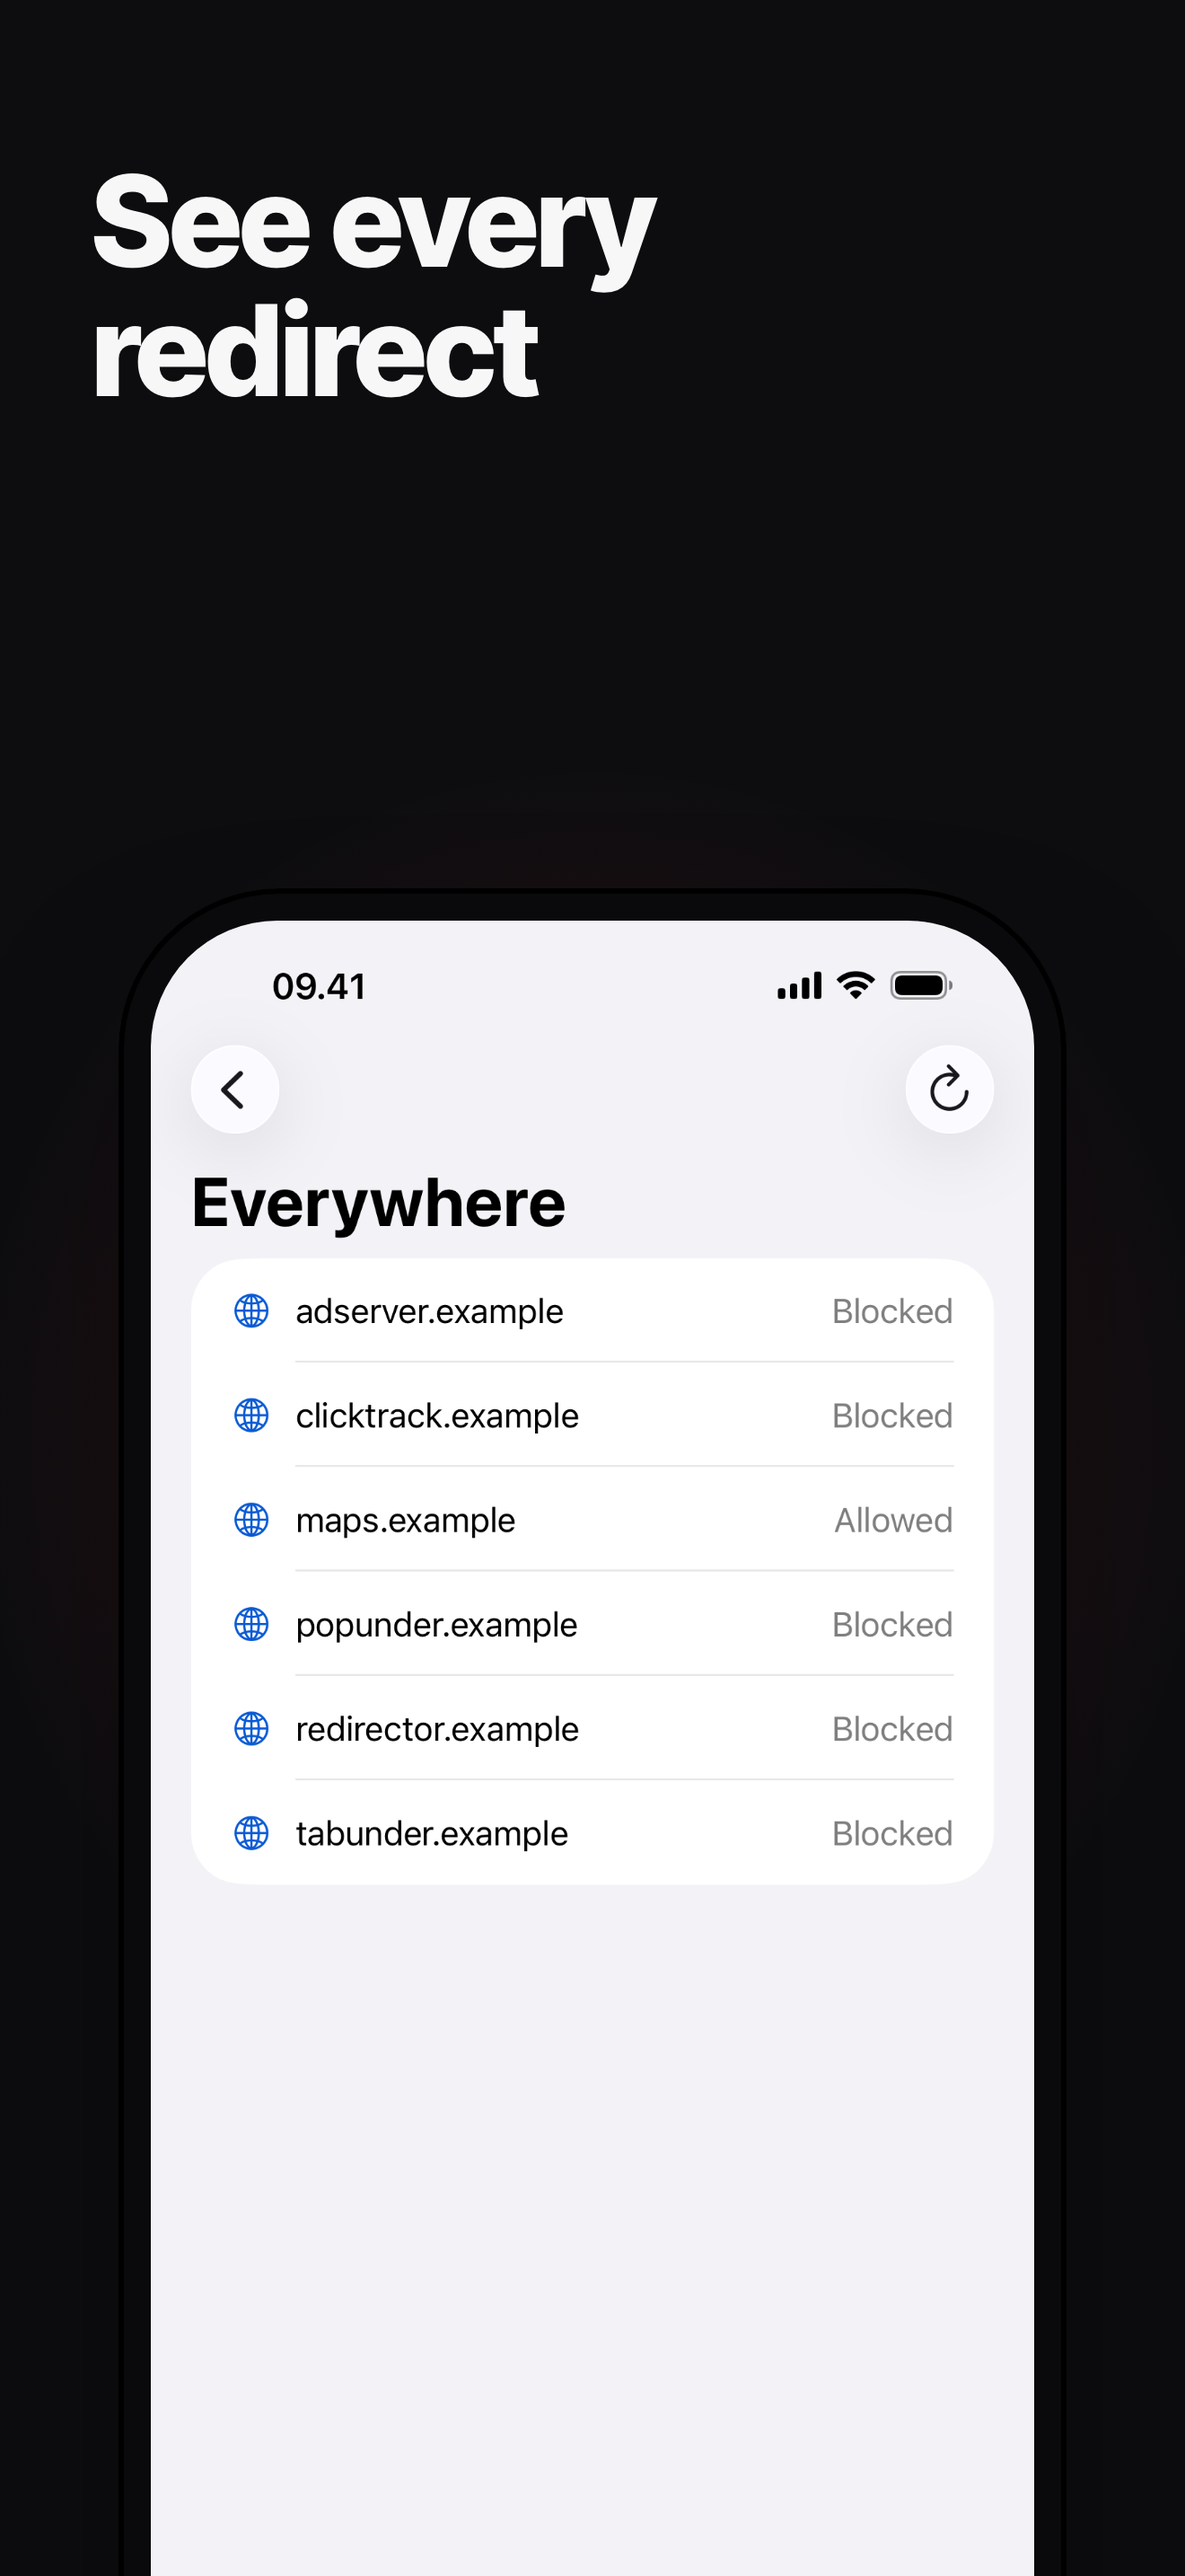
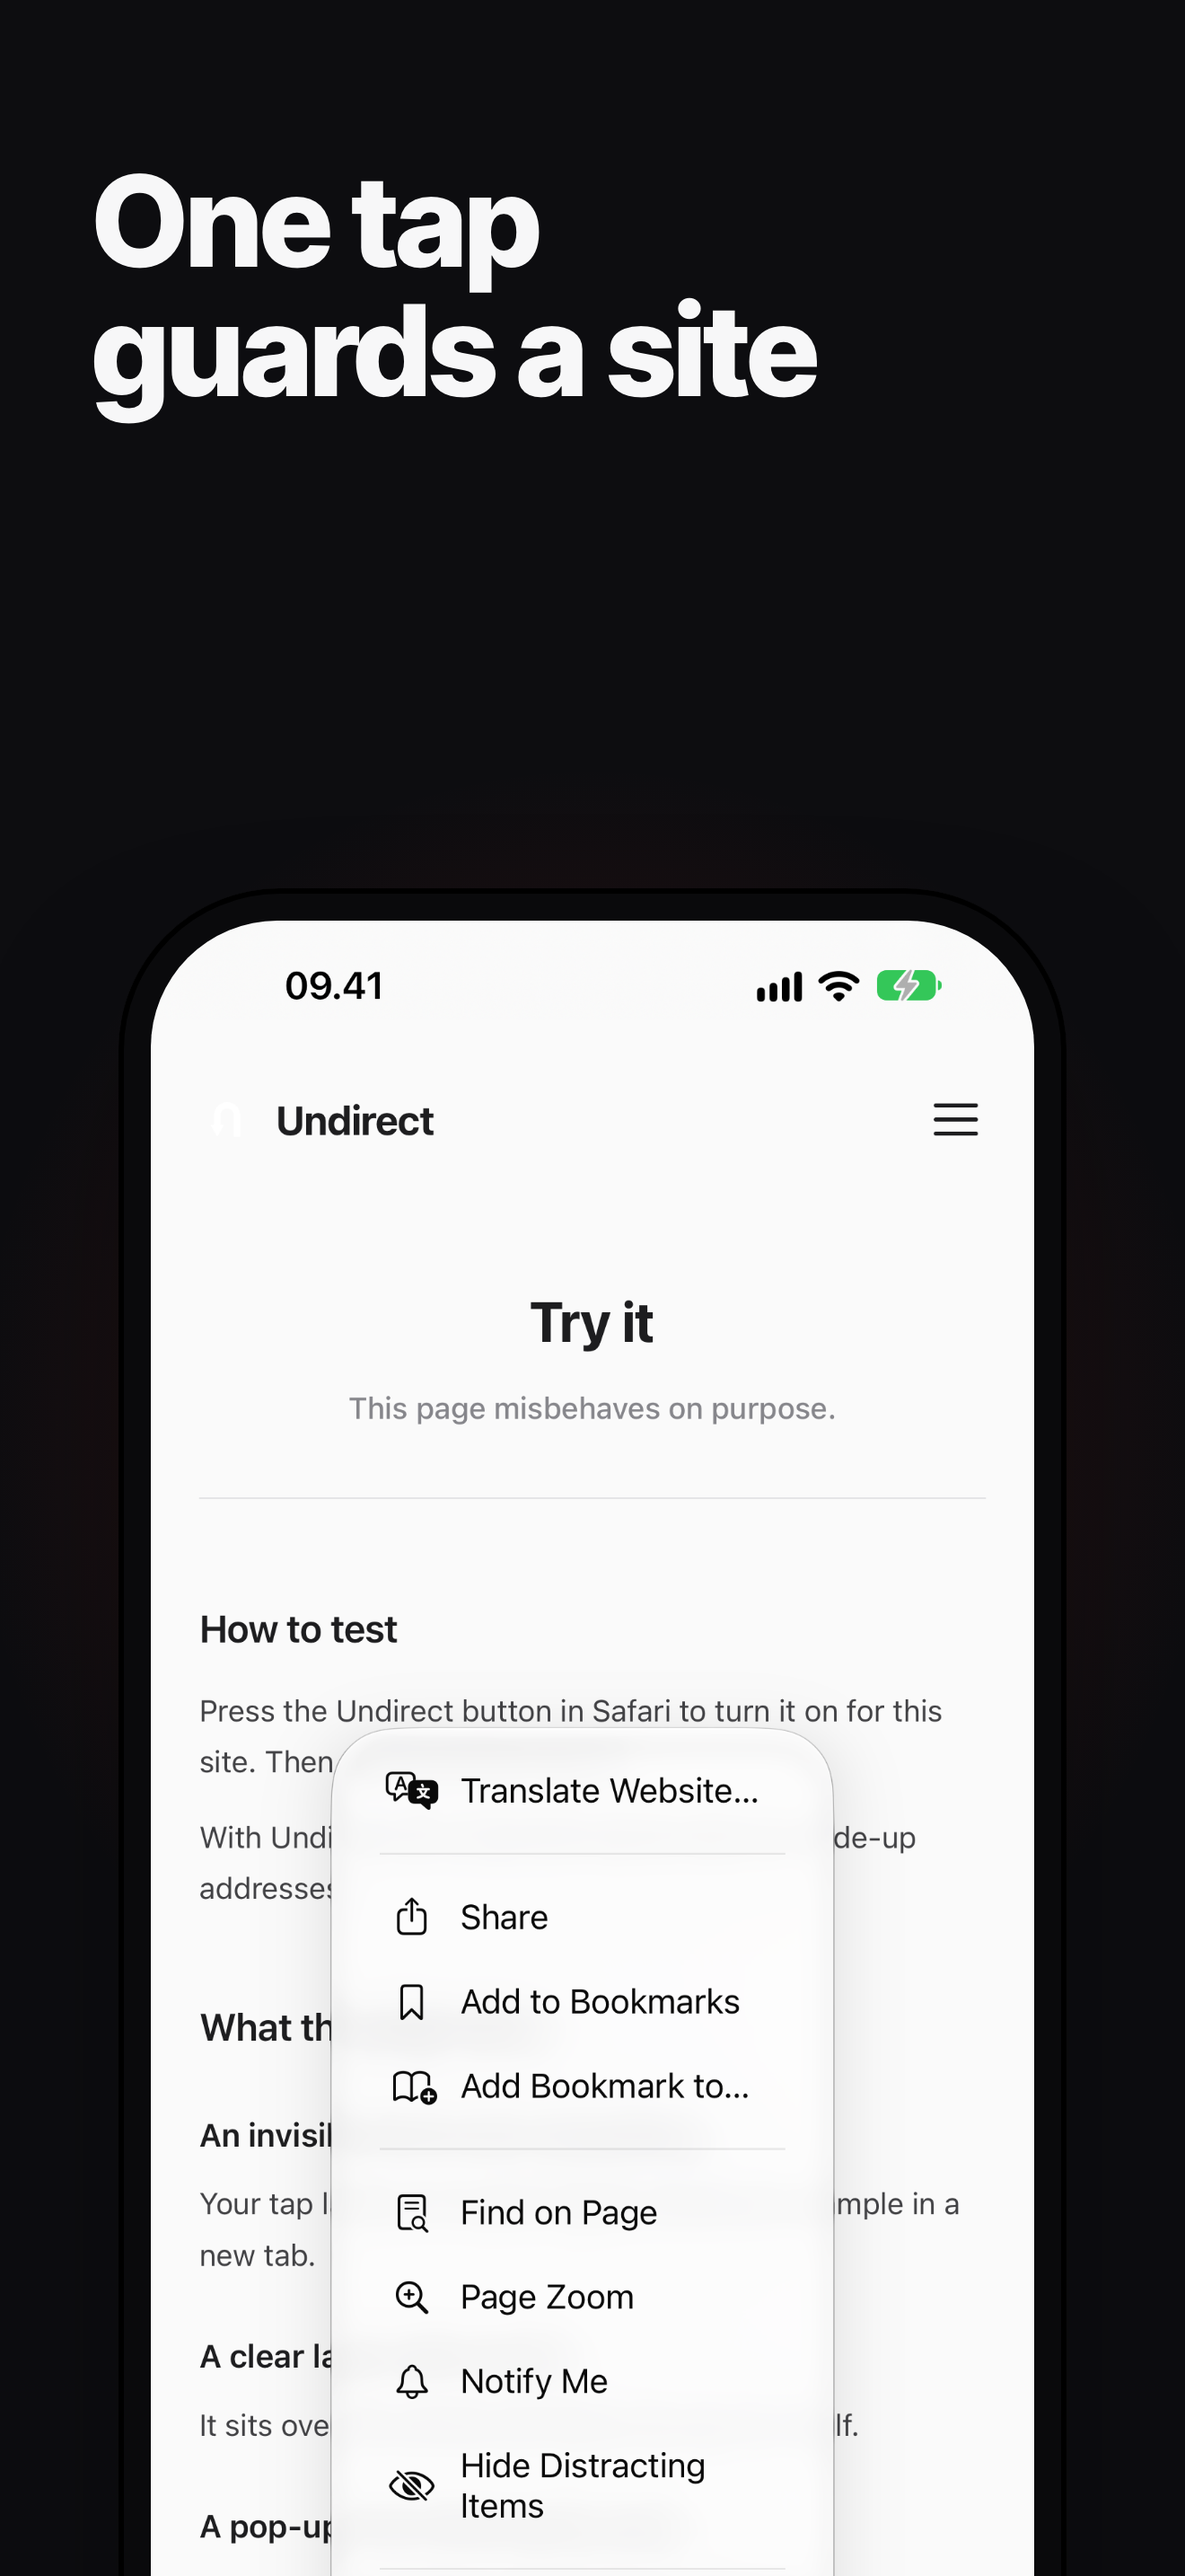
Store screenshots from the demo page, popup first

diff --git a/docs/app-store-submission.md b/docs/app-store-submission.md
@@ -12,9 +12,9 @@ What is done, what needs an Apple account, and one judgement call.
   required-reason API the app touches: `UserDefaults` under `CA92.1`, which backs
   the flag remembering the welcome screen was shown.
 - App icon is a square, unmasked 1024 in the asset catalog, plus the macOS sizes.
-- Nine screenshots, three per platform, at sizes Apple accepts: iPhone 6.9"
-  1320x2868, iPad 13" 2064x2752, Mac 2880x1800. All sRGB with no alpha, and each
-  is around 190 KB against an 8 MB ceiling.
+- Screenshots from real Safari on the demo page (`undirect.matsuokengo.com/demo/`):
+  three iPhone 6.9" 1320x2868, three iPad 13" 2064x2752, two Mac 2880x1800,
+  framed from `.shots/` (untracked) and checked by the hypershots validator.
 - Store copy, review notes and the App Privacy answers are written in
   `Support/AppStore/metadata.md`, each field counted against its limit.
 - Release configuration builds on both platforms.
